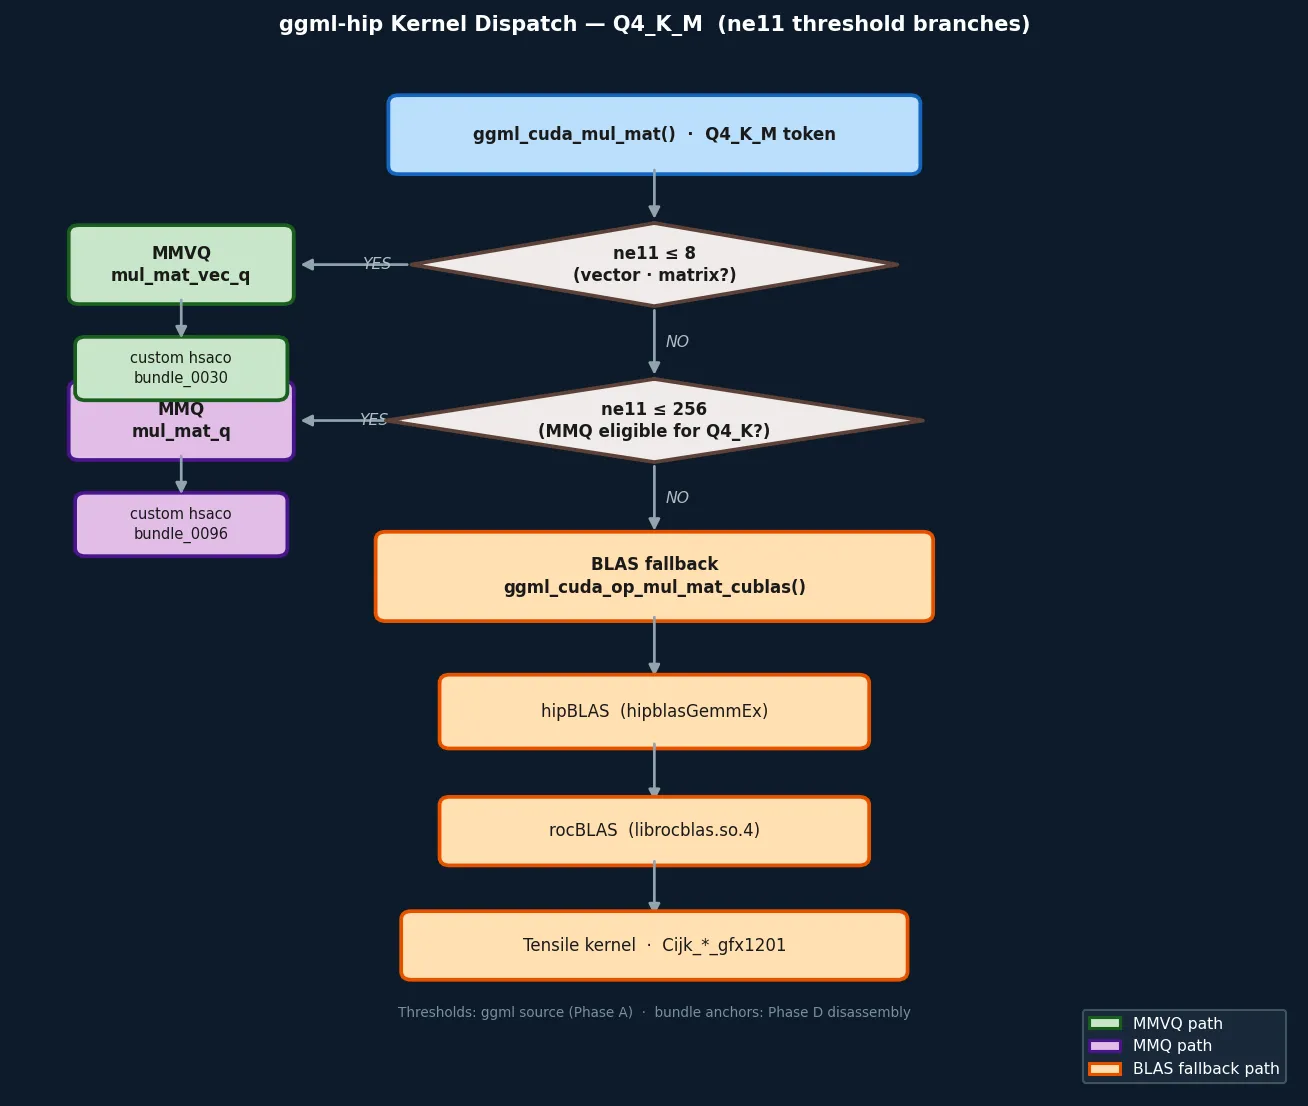
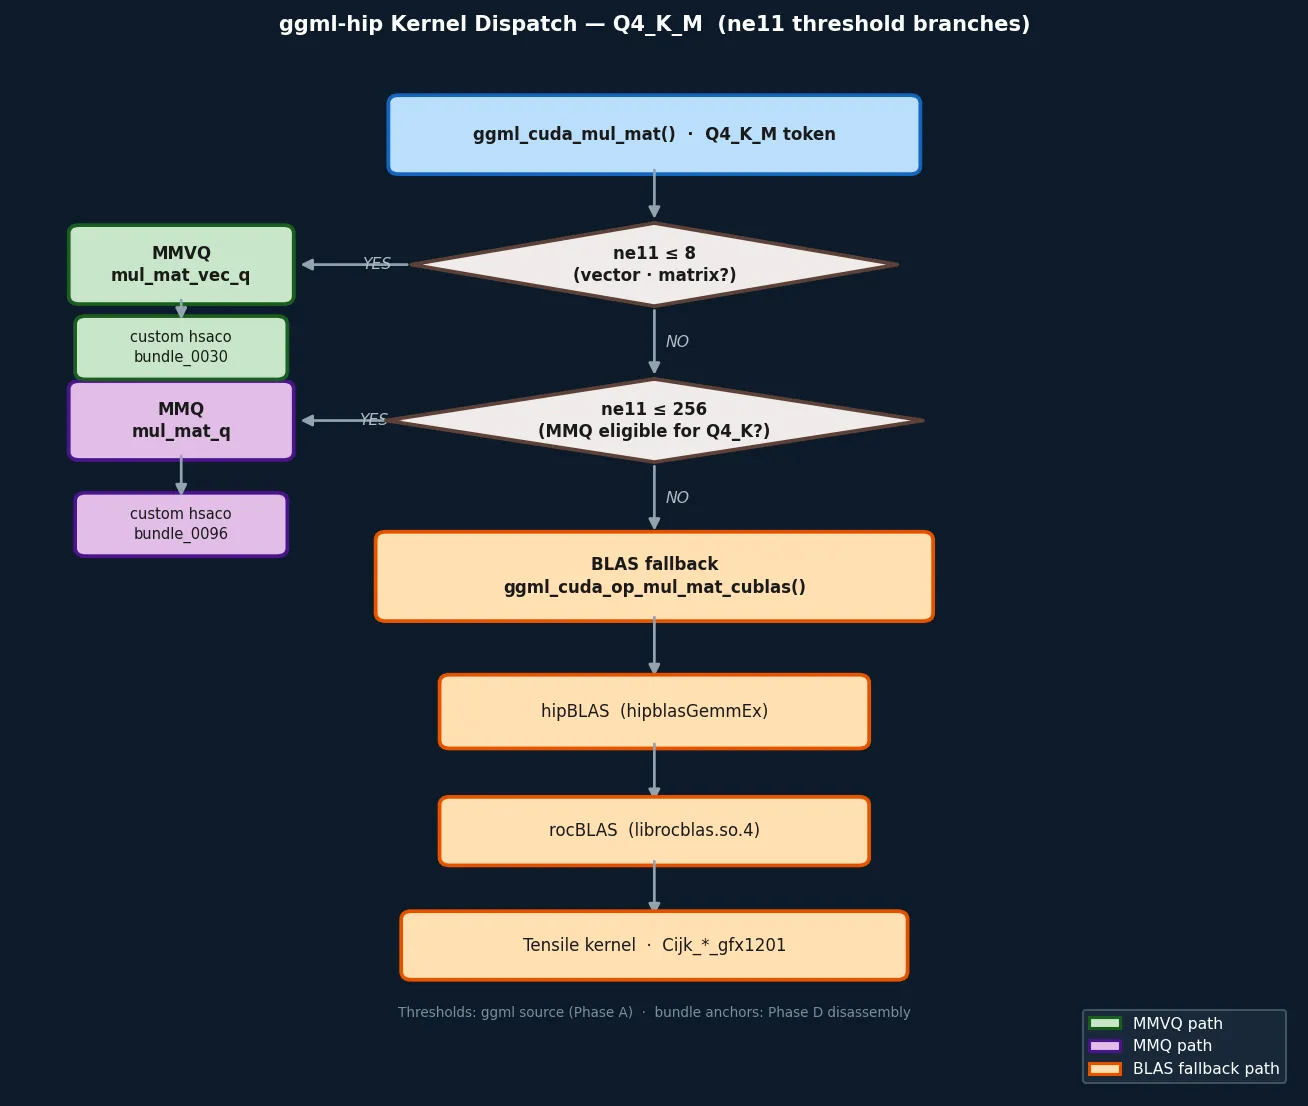
docs: グラフ画像のスタイルを追加し、表示を改善

Changed region(s): [[0.0306, 0.2767, 0.2446, 0.3689]]

diff --git a/gpu-gen/rDNA4/R9070XT/rx9070xt-path.html b/gpu-gen/rDNA4/R9070XT/rx9070xt-path.html
@@ -105,9 +105,14 @@
         </span>
       </div>
 
-      <img src="../../../assets/img/graph/ggml_dispatch_flow.webp"
-           alt="ggml dispatch flow — ne11 threshold branches to MMVQ / MMQ / BLAS"
-           class="graph-img" style="margin-top:14px;" />
+      <a href="../../../assets/img/graph/ggml_dispatch_flow.webp" target="_blank"
+         class="graph-zoom" title="クリックで拡大 / Click to enlarge">
+        <img src="../../../assets/img/graph/ggml_dispatch_flow.webp"
+             alt="ggml dispatch flow — ne11 threshold branches to MMVQ / MMQ / BLAS"
+             class="graph-img" />
+      </a>
+      <p class="graph-caption ja">クリックで拡大 ·  Phase A ソース閾値 + Phase D bundle アンカーから生成</p>
+      <p class="graph-caption en">Click to enlarge  ·  Generated from Phase A source thresholds + Phase D bundle anchors</p>
     </section>
 
     <!-- ── Step 2: バイナリの存在確認 ──────────────────────────── -->

diff --git a/assets/css/style.css b/assets/css/style.css
@@ -300,3 +300,27 @@ code {
 /* ── Language visibility ── */
 html[data-lang="en"] .ja { display: none !important; }
 html[data-lang="ja"] .en { display: none !important; }
+
+/* ── Graph images (Python-generated) ── */
+.graph-img {
+  max-width: 100%;
+  height: auto;
+  display: block;
+  border-radius: 6px;
+  margin: 12px auto 4px;
+}
+.graph-zoom {
+  display: block;
+  text-decoration: none;
+}
+.graph-zoom:hover .graph-img {
+  opacity: 0.92;
+  outline: 2px solid #4A90D9;
+  outline-offset: 2px;
+}
+.graph-caption {
+  text-align: center;
+  font-size: .75rem;
+  color: var(--muted);
+  margin-bottom: 10px;
+}
